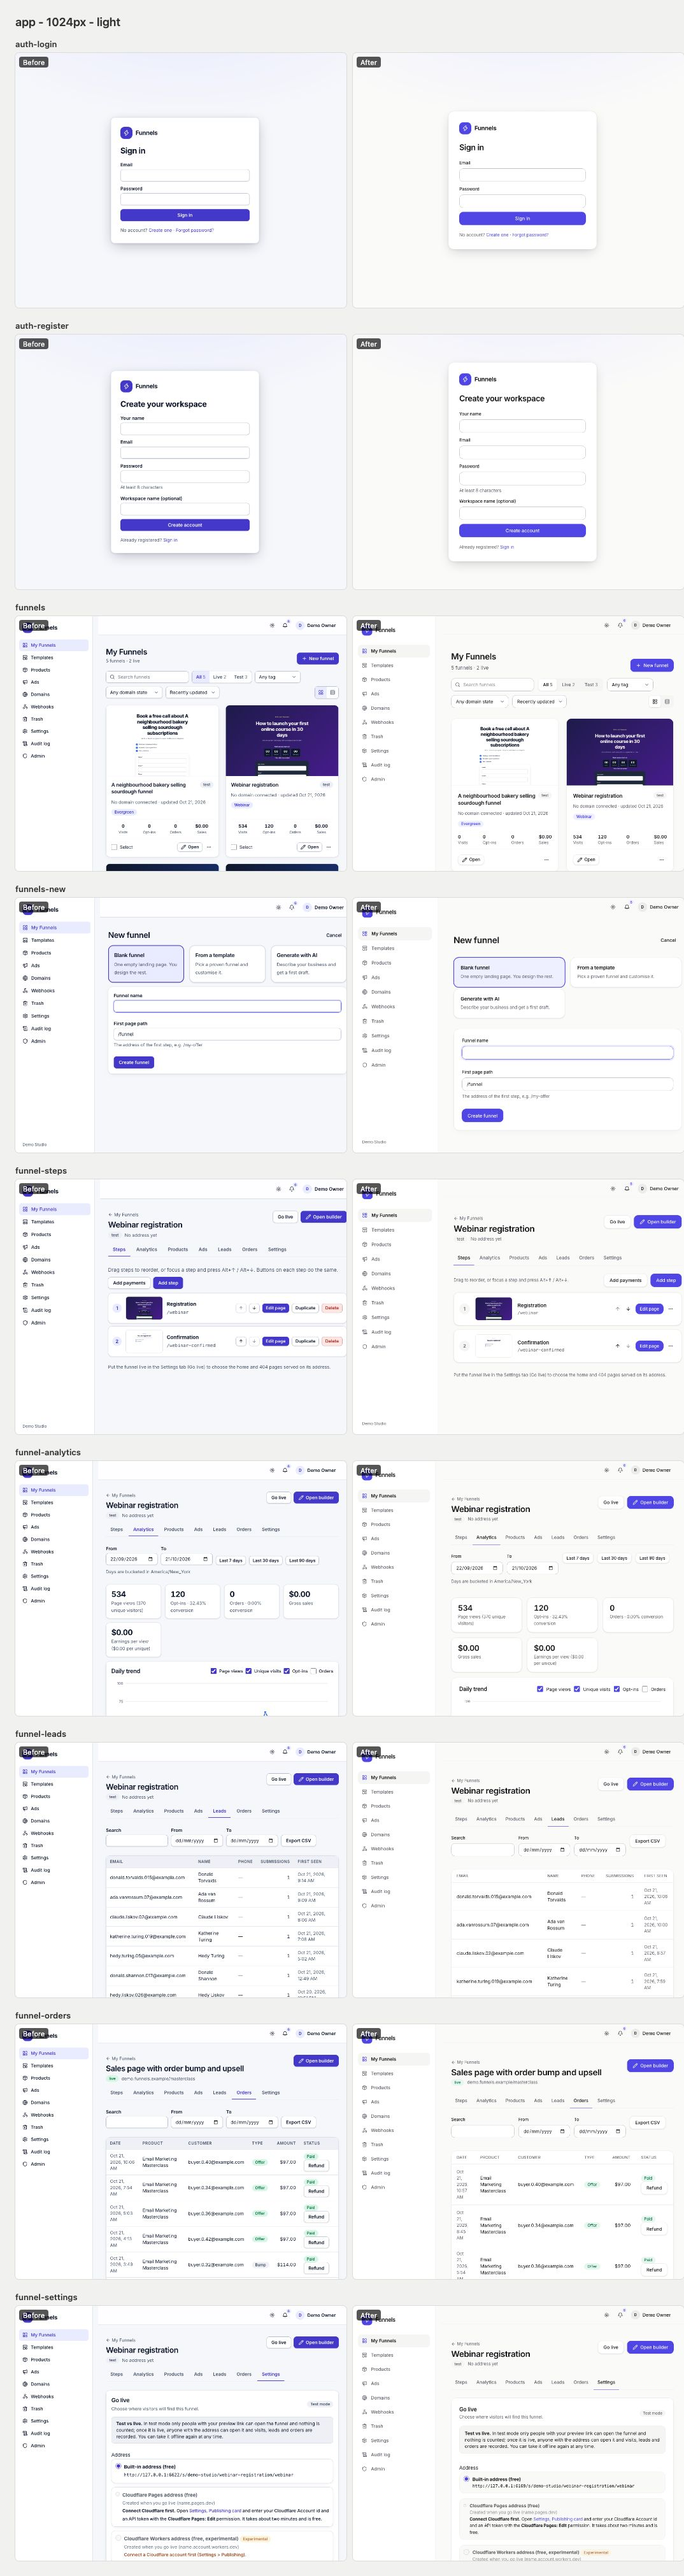
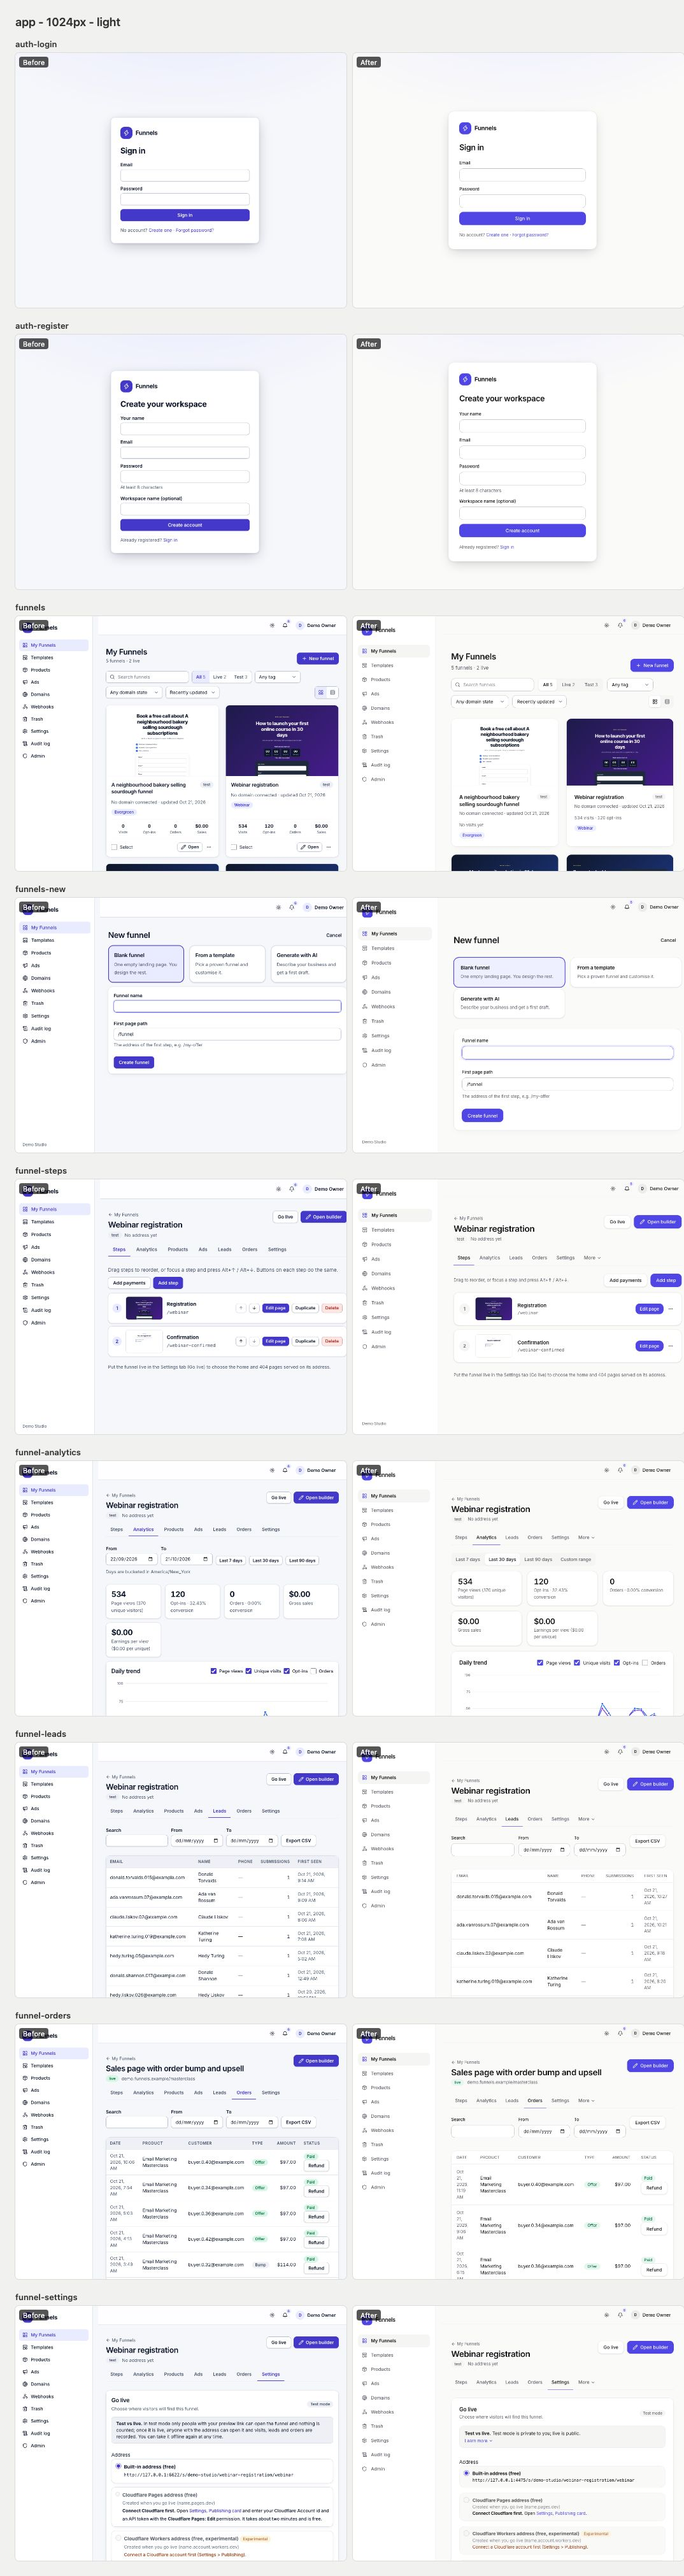
docs(design): refreshed before/after sheets and notes for the second calm pass

diff --git a/CHANGELOG.md b/CHANGELOG.md
@@ -5,7 +5,7 @@ All notable changes. Format: [Keep a Changelog](https://keepachangelog.com/en/1.
 ## [Unreleased]
 
 ### Changed
-- **Calmer, more spacious interface** (docs/design/DESIGN.md, "The calm pass"; purely visual, no behaviour or API change): a warm-neutral palette with a single indigo accent, hairline borders and softer shadows, more padding and a 32 px section rhythm, lighter type weights, 40/44 px controls, soft focus rings, neutral active states and tinted segmented controls; funnel cards and step rows show less at a glance (selection checkbox on the thumbnail, step actions in a menu), Settings gets a section index, and the builder panels, tiles and spacing box are quieter. New `PageHeader` primitive and `e2e/review-shots.mjs` / `e2e/contact-sheet.mjs` for before/after review.
+- **Calmer, more spacious interface** (docs/design/DESIGN.md, "The calm pass"; purely visual, no behaviour or API change): a warm-neutral palette with a single indigo accent, hairline borders and softer shadows, more padding and a 32 px section rhythm, lighter type weights, 40/44 px controls, soft focus rings, neutral active states and tinted segmented controls; funnel cards and step rows show less at a glance (selection checkbox on the thumbnail, step actions in a menu), Settings gets a section index, and the builder panels, tiles and spacing box are quieter. Second pass on density: the builder top bar keeps Save and Publish and moves view saved page, version history, page settings, add payments and shortcuts into a More menu; step move up/down join each step's menu; Go live and publishing copy is one line with Learn more disclosures; funnel cards show one stats line; funnel tabs fold Products and Ads under More; reports share a `RangePicker` (presets, custom range behind a button); the block panel opens one category; funnel settings tuck favicon and tracking code into an optional section. New `PageHeader` primitive and `e2e/review-shots.mjs` / `e2e/contact-sheet.mjs` for before/after review.
 - **The builder's Publish dialog now publishes** (docs/GO-LIVE.md, "Publishing from the builder"): it saves unsaved changes first, then shows the same address choices as the Go live card (built-in address preselected, Cloudflare Pages with a "Connect Cloudflare first" explanation and a link to Settings > Publishing when no account is connected, the experimental Workers address marked as such, verified custom domains) with the real URL of each, and goes live in one step with progress, the server's message on failure with Retry, and Copy and Open on success. A live funnel shows where it is served and offers Update live page (save and republish) and Take offline. The old text that sent people to connect a domain is gone, here and on the Domains page, the Steps tab, the Publishing card, the funnel settings validation and docs/DEPLOY.md; the `DOMAIN_NOT_ADDED` message now names the go-live options. The dialog traps focus, announces status and errors, and returns focus to Publish.
 
 ### Fixed

diff --git a/docs/design/DESIGN.md b/docs/design/DESIGN.md
@@ -45,7 +45,14 @@ Feedback was that the app looked crowded and not classy. The fix is made in the 
 * **Fewer lines.** Cards keep one hairline border and a very soft shadow; tables lose the grey header fill and use light column labels; consecutive sub-sections of a card are separated by one rule; a card inside a card is a flat inset. Segmented controls (status filter, view switch, builder style controls) are a tinted track with a raised active segment instead of bordered boxes.
 * **One accent, used sparingly.** Indigo marks primary actions, links and selection. The active nav item and tab are neutral with weight; the inspector's margin and padding boxes are neutral (they used yellow and green).
 * **Lighter type.** Buttons, labels and tabs are weight 500 (600 only for headings and table figures), body line-height 1.6, labels 13 px, the page title 26 px with tighter tracking.
-* **Progressive disclosure.** A step row shows its number, thumbnail, name and Edit page; duplicate, home/404 and delete live in its menu (move up/down too under 640 px). A funnel card shows its thumbnail, name, stats and Open; the selection checkbox sits on the thumbnail (visible on hover, focus, selection and on touch screens). Settings has a section index on wide screens.
+* **Progressive disclosure.** What is rarely needed sits one click away:
+  * Builder top bar: back, step, undo/redo, device, preview, save status, Save and Publish stay; view saved page, version history, page settings, add payments and shortcuts are in one More menu.
+  * Block panel: only the first category is open.
+  * Step row: number, thumbnail, name and Edit page; move up/down, duplicate, home/404 and delete are in its menu.
+  * Funnel card: thumbnail, name, status, one quiet stats line (only non-zero figures); the actions menu and the selection checkbox appear on the thumbnail on hover, focus, selection and on touch screens.
+  * Funnel tabs: Steps, Analytics, Leads, Orders, Settings; Products and Ads are under More (the open one stays visible).
+  * Reports: Last 7/30/90 days as one segmented control (`RangePicker`) with the date pickers behind Custom range.
+  * Go live and publishing: one line each, the longer explanations behind Learn more (`LearnMore`, a native disclosure); funnel Settings keeps favicon and tracking code in an optional section; Settings has a section index.
 * **Touch and focus.** Controls are 40 px tall (44 px under 640 px); focus is a 4 px soft ring plus the border colour on inputs and the 2 px outline elsewhere.
 * **Radii and shadows.** Controls 8 px, cards 12 px, dialogs 16 px; `shadow-card` is two soft layers, `shadow-pop` only for floating surfaces.
 
